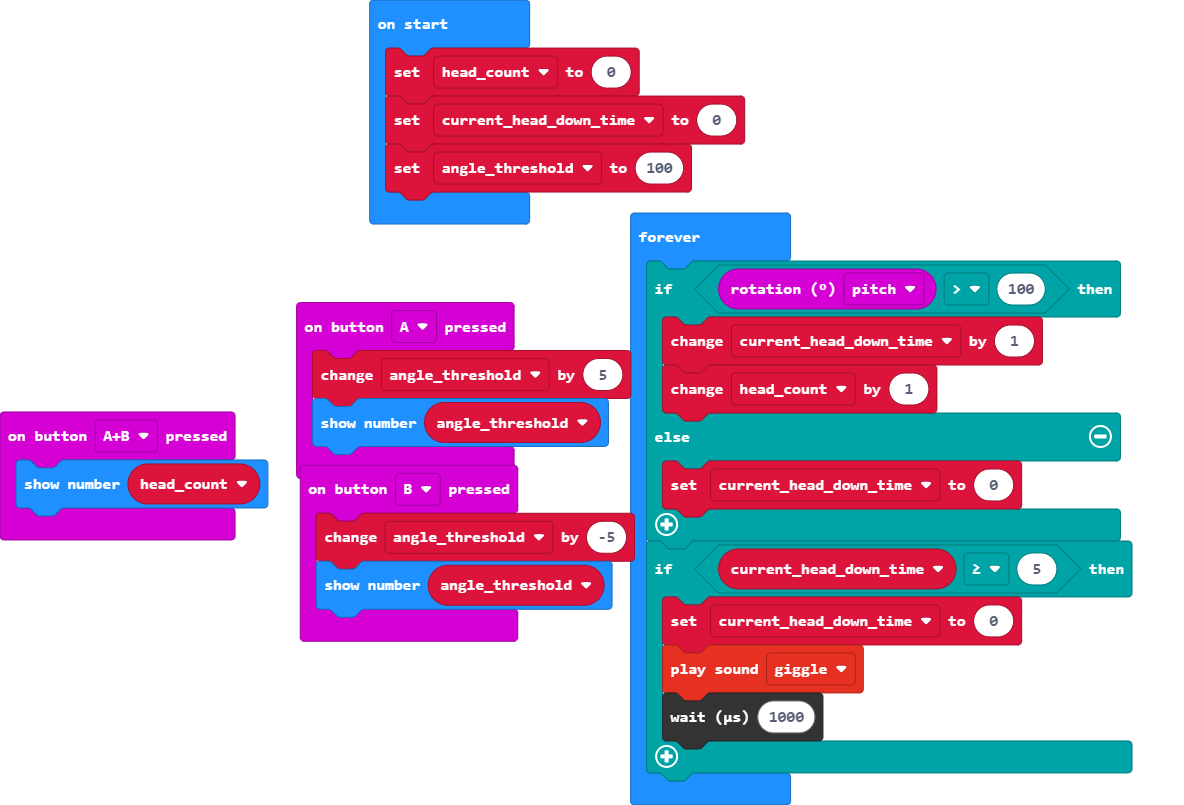
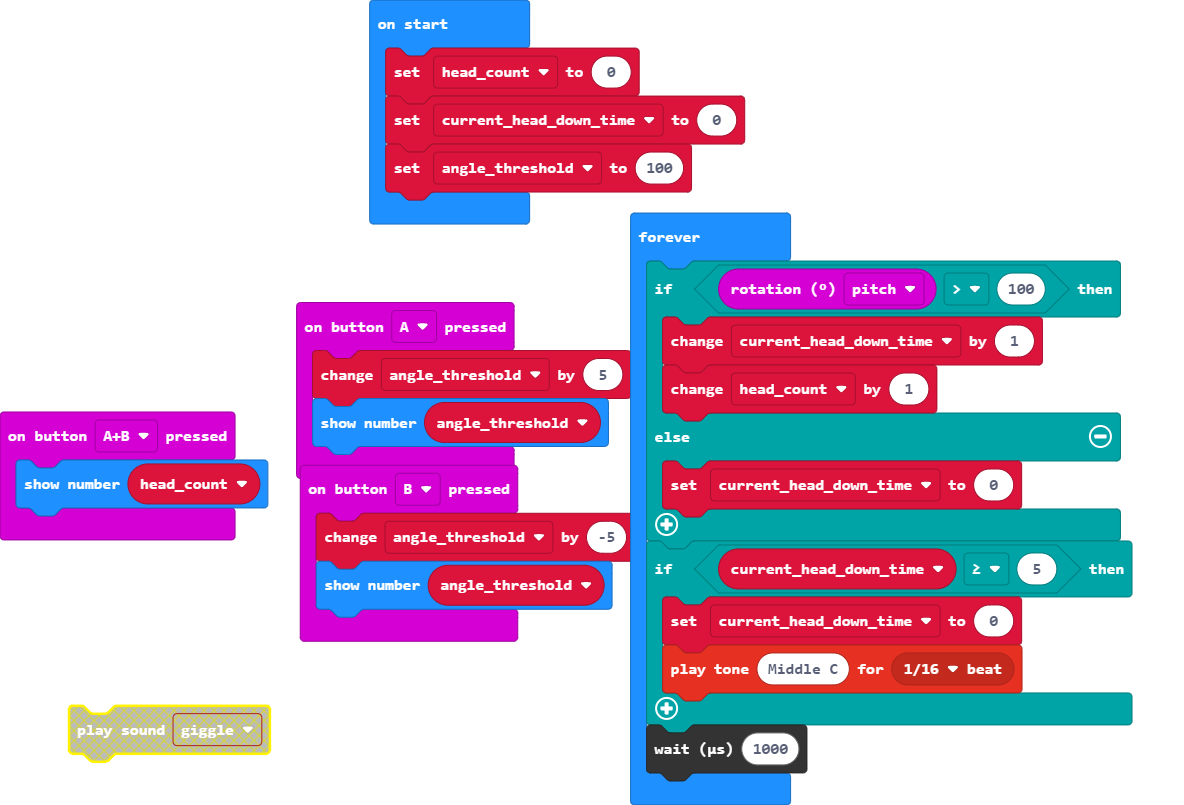
Update main.blocks, main.ts

Changed region(s): [[0.5312, 0.7764, 0.9688, 0.9938], [0.0312, 0.8696, 0.25, 0.9627], [0.5312, 0.6522, 0.5625, 0.6832]]

diff --git a/main.ts b/main.ts
@@ -23,7 +23,7 @@ basic.forever(function () {
     }
     if (current_head_down_time >= 5) {
         current_head_down_time = 0
-        soundExpression.giggle.play()
-        control.waitMicros(1000)
+        music.playTone(262, music.beat(BeatFraction.Sixteenth))
     }
+    control.waitMicros(1000)
 })
